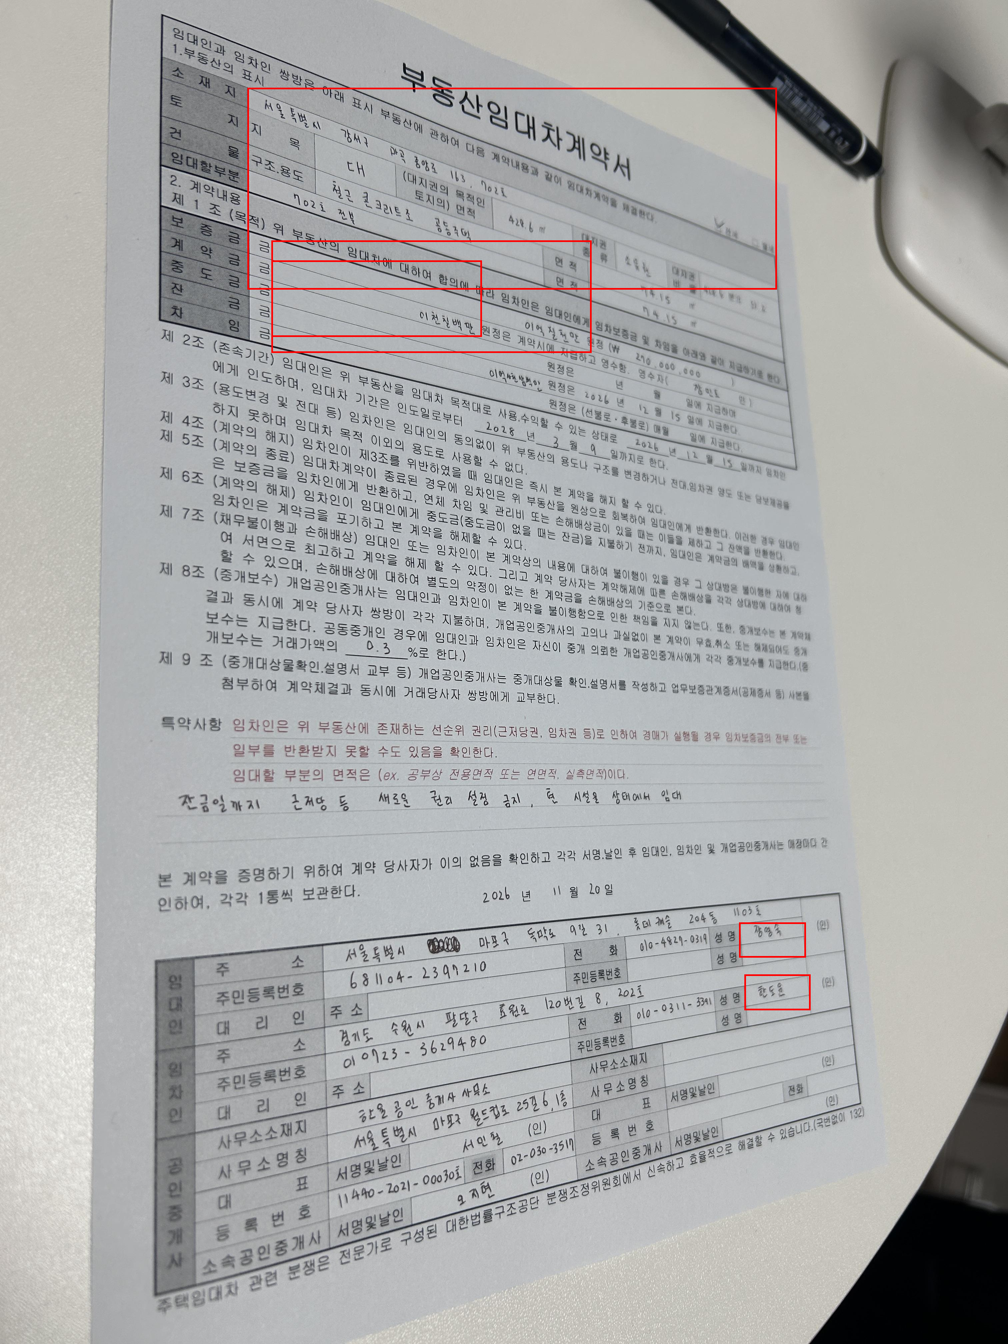
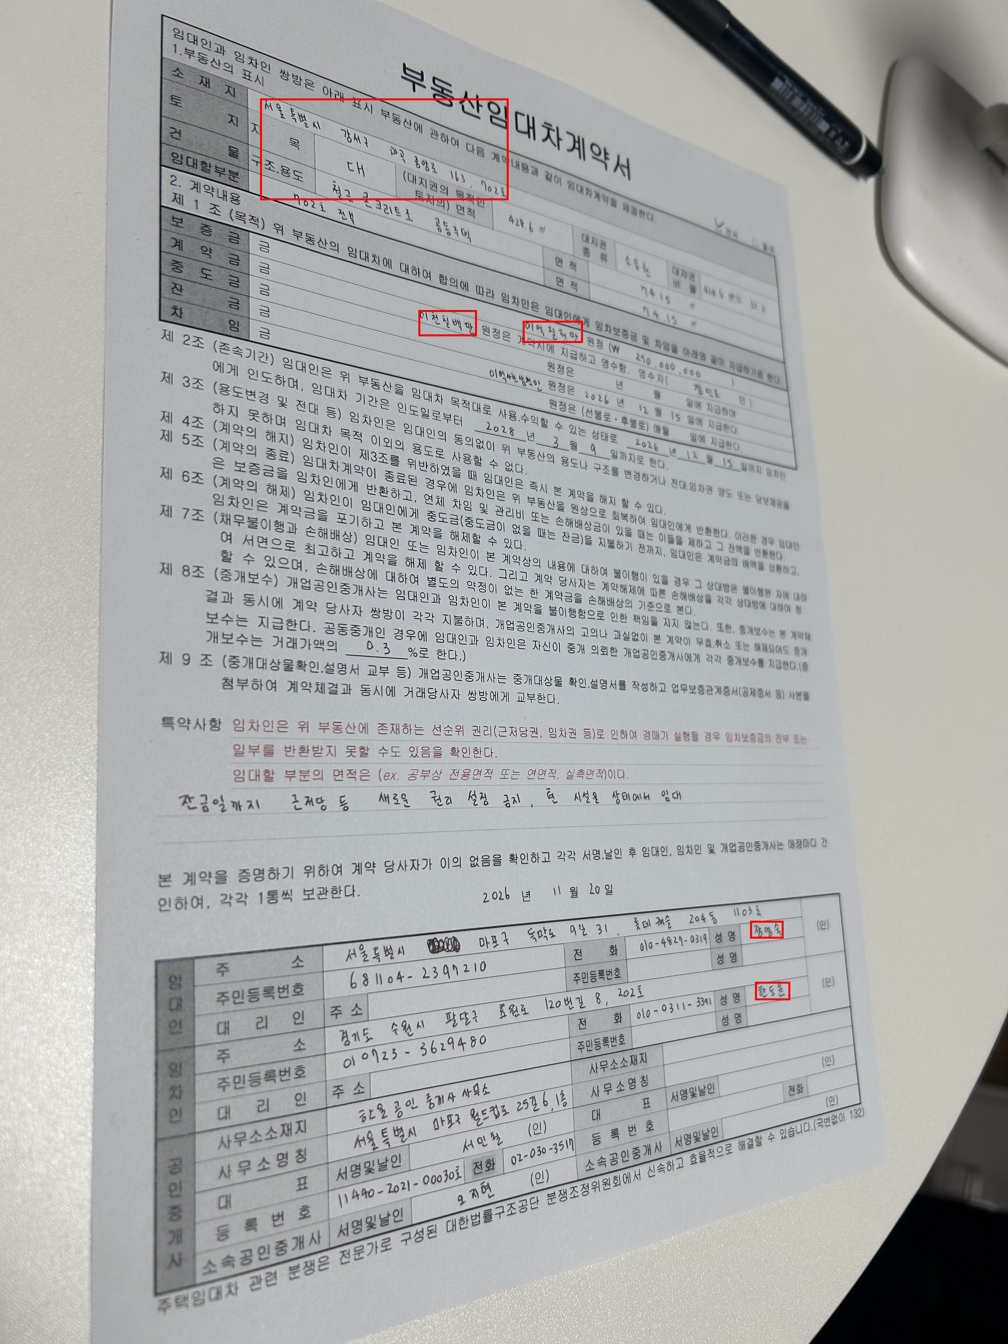
data: relabel tail_001/tail_005 ROI bbox to Value-only (tight value text)

diff --git a/plan.md b/plan.md
@@ -28,7 +28,7 @@ GT 작성·manifest 통일·development/holdout 분리는 가은 학우, 최종 
 - [x] 신규 촬영본 전달 확인: 가은 학우 `dataset-v1`(Development 19장)에 docA 3장(tail_001 perspective, tail_002 distance, tail_007 baseline)이 반영됨. docB·docC 6장은 holdout 후보라 Development에 없음
 - [x] docA 3장 필드별 ROI bbox 15개 라벨링: [`roi_bbox_docA.json`](sample_data_jpg/sample_data_v2/roi_bbox_docA.json), 확인용 [`roi_check/`](sample_data_jpg/sample_data_v2/roi_check/)
   - 기준: 공통 10장과 같이 **값이 기재되는 입력 칸을 감쌈**, 좌표는 EXIF 회전 후(3024×4032) `[x1,y1,x2,y2]`. 팀장 가이드(`roi_coverage_gt_bbox_guide.md`)의 "값 영역" 정의와 칸 기준이 다르다는 점은 가은 학우가 샘플 1~10 기준으로 정리하라고 답함
-  - tail_001(사선 강함)은 칸이 비스듬해 박스가 옆 칸 일부를 포함. 눈으로 지정한 값이라 검수 필요
+  - **11-11 수정:** tail_001·tail_005를 Value-only 기준(11-08 확정, 실제 값 글자를 감싸는 최소 영역)으로 재라벨. 이전 입력 칸 기준 값(tail_001 계약금 `[814,781,1445,1010]`)과 Dataset GT의 옛 값 `[814,781,1403,1010]`는 폐기, 새 계약금 `[1255,930,1430,1008]`. docC 성명은 허재석·제갈다온 확정. tail_002·007·나머지 docB/docC는 아직 입력 칸 기준
 - [x] docB·docC 6장(tail_003·004·005·006·008·009) ROI bbox 30개 라벨링: [`roi_bbox_docBC.json`](sample_data_jpg/sample_data_v2/roi_bbox_docBC.json), 같은 기준·확인용 `roi_check/`. holdout 후보라 가은 학우 확인 후 전달 (tail_005 사선은 박스가 옆 칸 일부 포함)
   - 희원 라벨(`heewon/field_gt_heewon_labeled (2).json`)에도 같은 3장이 있으나 "두 벌 라벨은 신경 쓰지 않아도 됨"(가은 학우 답)
 
